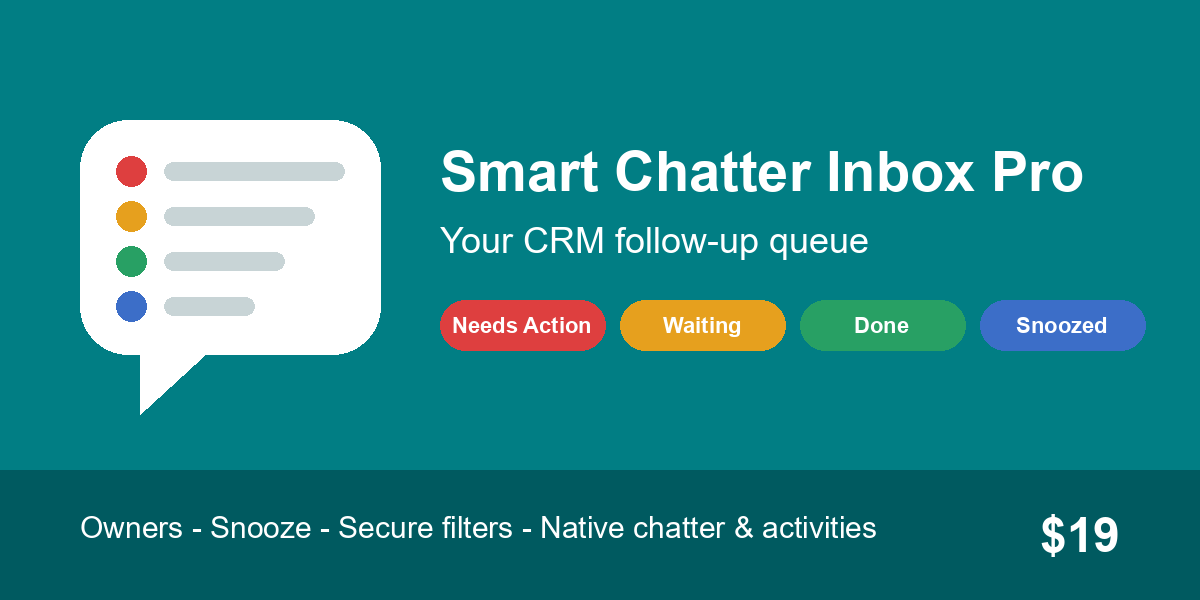
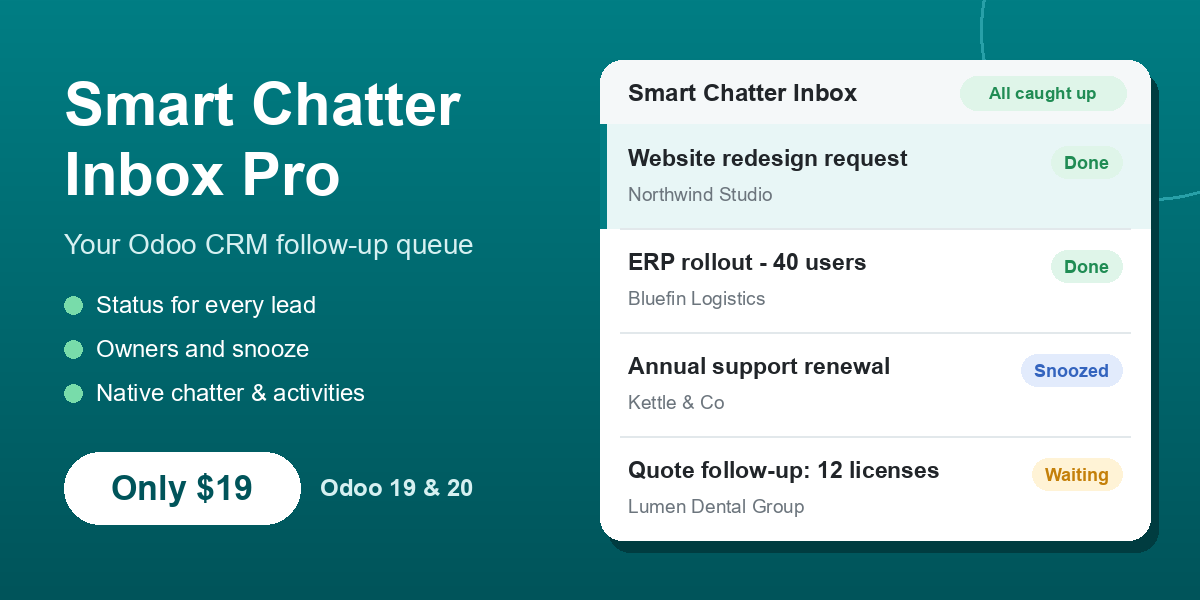
Add animated store page: GIF demos, animated thumbnail, landing layout
- Rebuild static/description/index.html (19.0 and 20.0) as a long landing
  page: hero, ideal-for, live GIF demos, 3-step setup, features, numbers,
  security, comparison table, screenshots, FAQ and support band.
- Add per-version GIF demos (triage, snooze, filters, chatter, mobile)
  recorded from real databases, and an animated banner.gif thumbnail.
- tools/record_gifs.py and tools/make_thumbnail.py generate them;
  make_images.py now only draws the icon.
- seed_demo.py re-adds the inbox group to demo users after a reinstall.

diff --git a/sd_smart_chatter_inbox/static/description/index.html b/sd_smart_chatter_inbox/static/description/index.html
@@ -1,91 +1,281 @@
-<section class="oe_container" style="padding: 32px 16px; font-family: Arial, Helvetica, sans-serif;">
-    <div style="max-width: 1100px; margin: 0 auto; text-align: center;">
-        <h1 style="color: #017e84; font-size: 36px; margin-bottom: 8px;">Smart Chatter Inbox Pro</h1>
-        <h2 style="color: #333; font-size: 20px; font-weight: normal; margin-top: 0;">
-            Keep every Odoo CRM conversation organized, assigned and actionable.
-        </h2>
-        <p style="font-size: 16px; color: #555; max-width: 760px; margin: 16px auto;">
-            Your sales team gets one queue of leads and opportunities that need a reply. Each one has a status
-            (<b>Needs Action</b>, <b>Waiting</b>, <b>Done</b> or <b>Snoozed</b>) and a follow-up owner.
-            Replies still happen in Odoo's own chatter, so nothing about your email setup changes.
+<!-- Store page for apps.odoo.com: inline styles + Bootstrap grid only (scripts and <style> are stripped). -->
+
+<!-- ============ HERO ============ -->
+<section class="oe_container" style="padding: 0; font-family: Arial, Helvetica, sans-serif;">
+    <div style="background: linear-gradient(160deg, #017e84 0%, #00545a 100%); border-radius: 18px; padding: 48px 24px 0; text-align: center; color: #fff; overflow: hidden;">
+        <p style="display: inline-block; background: rgba(255,255,255,.14); border: 1px solid rgba(255,255,255,.3); border-radius: 20px; padding: 5px 16px; font-size: 13px; letter-spacing: .08em; margin: 0 0 18px;">
+            ODOO CRM APP &nbsp;·&nbsp; ODOO 19 &amp; 20 &nbsp;·&nbsp; COMMUNITY &amp; ENTERPRISE
         </p>
-        <p style="display: inline-block; background: #017e84; color: #fff; font-size: 18px; font-weight: bold;
-                  padding: 10px 24px; border-radius: 24px;">
-            Only $19, one-time purchase
+        <h1 style="color: #fff; font-size: 44px; line-height: 1.15; font-weight: 800; margin: 0 auto 14px; max-width: 860px;">
+            Never lose a CRM follow-up again.
+        </h1>
+        <p style="color: #d6f0f1; font-size: 20px; line-height: 1.5; max-width: 760px; margin: 0 auto 26px;">
+            <b style="color: #fff;">Smart Chatter Inbox Pro</b> turns your leads and opportunities into one shared queue:
+            <b style="color: #fff;">Needs Action</b>, <b style="color: #fff;">Waiting</b>, <b style="color: #fff;">Done</b> and
+            <b style="color: #fff;">Snoozed</b>, each with a clear owner. Replies stay in Odoo's own chatter.
         </p>
-    </div>
-</section>
-
-<section class="oe_container" style="padding: 16px;">
-    <div style="max-width: 1100px; margin: 0 auto;">
-        <img src="screenshot_inbox.png" alt="Smart Chatter Inbox: filters, queue and lead details"
-             style="width: 100%; border: 1px solid #ddd; border-radius: 8px; box-shadow: 0 4px 16px rgba(0,0,0,.08);"/>
-    </div>
-</section>
-
-<section class="oe_container" style="padding: 32px 16px; font-family: Arial, Helvetica, sans-serif;">
-    <div style="max-width: 1100px; margin: 0 auto;">
-        <h2 style="color: #017e84; text-align: center;">What you get</h2>
-        <table style="width: 100%; border-collapse: separate; border-spacing: 12px;">
-            <tr>
-                <td style="vertical-align: top; width: 33%; background: #f6fafa; border-radius: 8px; padding: 16px;">
-                    <h3 style="margin-top: 0;">Follow-up statuses</h3>
-                    <p>Needs Action, Waiting, Done and Snoozed, with quick filters including <b>My Queue</b> and <b>All Visible</b>.</p>
-                </td>
-                <td style="vertical-align: top; width: 33%; background: #f6fafa; border-radius: 8px; padding: 16px;">
-                    <h3 style="margin-top: 0;">Clear ownership</h3>
-                    <p>Give each lead a follow-up owner. The salesperson stays the same, and the lead is never shared with anyone new.</p>
-                </td>
-                <td style="vertical-align: top; width: 33%; background: #f6fafa; border-radius: 8px; padding: 16px;">
-                    <h3 style="margin-top: 0;">Snooze</h3>
-                    <p>Hide a lead until a date and time. It comes back to Needs Action by itself, with no scheduled job to manage.</p>
-                </td>
-            </tr>
-            <tr>
-                <td style="vertical-align: top; background: #f6fafa; border-radius: 8px; padding: 16px;">
-                    <h3 style="margin-top: 0;">Native chatter and activities</h3>
-                    <p><b>Open Chatter</b> opens the lead. <b>Schedule Follow-up</b> opens Odoo's own activity dialog.</p>
-                </td>
-                <td style="vertical-align: top; background: #f6fafa; border-radius: 8px; padding: 16px;">
-                    <h3 style="margin-top: 0;">Search and filters</h3>
-                    <p>Search by lead title or customer. Filter by owner, sales team, company and lead or opportunity.</p>
-                </td>
-                <td style="vertical-align: top; background: #f6fafa; border-radius: 8px; padding: 16px;">
-                    <h3 style="margin-top: 0;">Respects your access rules</h3>
-                    <p>Users only see leads they can already open. Multi-company rules and Odoo's record rules apply everywhere.</p>
-                </td>
-            </tr>
-        </table>
-    </div>
-</section>
-
-<section class="oe_container" style="padding: 16px; font-family: Arial, Helvetica, sans-serif;">
-    <div style="max-width: 1100px; margin: 0 auto;">
-        <h2 style="color: #017e84; text-align: center;">Snooze to an exact date and time</h2>
-        <img src="screenshot_snooze.png" alt="Snooze editor with time zone"
-             style="width: 100%; border: 1px solid #ddd; border-radius: 8px;"/>
-        <h2 style="color: #017e84; text-align: center; margin-top: 40px;">Reply in Odoo's own chatter</h2>
-        <img src="screenshot_chatter.png" alt="Open Chatter on the CRM lead"
-             style="width: 100%; border: 1px solid #ddd; border-radius: 8px;"/>
-        <h2 style="color: #017e84; text-align: center; margin-top: 40px;">Works on phones too</h2>
-        <div style="text-align: center;">
-            <img src="screenshot_mobile.png" alt="Mobile layout" style="width: 320px; max-width: 100%; border: 1px solid #ddd; border-radius: 16px;"/>
+        <p style="margin: 0 0 30px;">
+            <span style="display: inline-block; background: #fff; color: #00545a; font-size: 22px; font-weight: 800; padding: 12px 30px; border-radius: 30px; margin: 4px;">Only $19 &middot; one-time</span>
+            <span style="display: inline-block; background: rgba(255,255,255,.12); border: 1px solid rgba(255,255,255,.35); color: #fff; font-size: 16px; padding: 13px 22px; border-radius: 30px; margin: 4px;">Free setup help by email</span>
+        </p>
+        <div style="max-width: 1000px; margin: 0 auto; background: #fff; border-radius: 14px 14px 0 0; padding: 10px 10px 0; box-shadow: 0 -6px 30px rgba(0,0,0,.18);">
+            <p style="text-align: left; margin: 0 0 8px 6px; line-height: 1;">
+                <span style="display: inline-block; width: 11px; height: 11px; border-radius: 50%; background: #ff5f57; margin-right: 5px;"></span>
+                <span style="display: inline-block; width: 11px; height: 11px; border-radius: 50%; background: #febc2e; margin-right: 5px;"></span>
+                <span style="display: inline-block; width: 11px; height: 11px; border-radius: 50%; background: #28c840;"></span>
+            </p>
+            <img src="gif_filters.gif" alt="Animated demo: search and filter the follow-up queue" style="width: 100%; display: block; border-radius: 6px 6px 0 0;"/>
         </div>
     </div>
 </section>
 
-<section class="oe_container" style="padding: 32px 16px; font-family: Arial, Helvetica, sans-serif;">
-    <div style="max-width: 900px; margin: 0 auto;">
-        <h2 style="color: #017e84;">Good to know</h2>
-        <ul style="font-size: 15px; line-height: 1.7;">
-            <li>Covers CRM leads and opportunities. Requires the CRM app.</li>
-            <li>Statuses are your team's own workflow. They do not detect whether an email was read or answered.</li>
-            <li>No message preview in this version. Click <b>Open Chatter</b> to read the conversation.</li>
-            <li>Does not send email and does not connect to Gmail, Outlook or IMAP. It works with your existing Odoo mail setup.</li>
-            <li>Runs on Odoo.sh and self-hosted servers, Community or Enterprise. Odoo Online (SaaS) cannot install custom apps.</li>
-        </ul>
-        <h2 style="color: #017e84;">Support</h2>
-        <p style="font-size: 15px;">Questions or need help installing? Email
-            <a href="mailto:rahul@softdeviser.com">rahul@softdeviser.com</a>. We usually answer within one business day.</p>
+<!-- ============ TRUST STRIP ============ -->
+<section class="oe_container" style="padding: 22px 12px; font-family: Arial, Helvetica, sans-serif;">
+    <p style="text-align: center; color: #555; font-size: 15px; margin: 0;">
+        <span style="display: inline-block; margin: 6px 14px;">&#10003; Odoo 19 &amp; 20</span>
+        <span style="display: inline-block; margin: 6px 14px;">&#10003; Community &amp; Enterprise</span>
+        <span style="display: inline-block; margin: 6px 14px;">&#10003; Odoo.sh &amp; self-hosted</span>
+        <span style="display: inline-block; margin: 6px 14px;">&#10003; Multi-company</span>
+        <span style="display: inline-block; margin: 6px 14px;">&#10003; Phone &amp; tablet layout</span>
+        <span style="display: inline-block; margin: 6px 14px;">&#10003; No external services</span>
+    </p>
+</section>
+
+<!-- ============ IDEAL FOR ============ -->
+<section class="oe_container" style="padding: 24px 12px 8px; font-family: Arial, Helvetica, sans-serif;">
+    <h2 style="text-align: center; color: #1d2b2c; font-size: 30px; font-weight: 800; margin: 0 0 6px;">Ideal for</h2>
+    <p style="text-align: center; color: #666; font-size: 16px; margin: 0 0 24px;">Any team that answers customers from Odoo CRM.</p>
+    <div class="row" style="margin: 0;">
+        <div class="col-md-4" style="padding: 8px;">
+            <div style="height: 100%; border: 1px solid #e3ecec; border-radius: 14px; padding: 22px; background: #fff;">
+                <p style="font-size: 30px; margin: 0 0 8px;">&#128101;</p>
+                <h3 style="font-size: 19px; color: #017e84; margin: 0 0 8px;">Sales teams</h3>
+                <p style="color: #555; font-size: 15px; line-height: 1.55; margin: 0;">Everyone sees which leads are waiting on <b>us</b> and which are waiting on the <b>customer</b>. No more "did anyone reply to this?"</p>
+            </div>
+        </div>
+        <div class="col-md-4" style="padding: 8px;">
+            <div style="height: 100%; border: 1px solid #e3ecec; border-radius: 14px; padding: 22px; background: #fff;">
+                <p style="font-size: 30px; margin: 0 0 8px;">&#128202;</p>
+                <h3 style="font-size: 19px; color: #017e84; margin: 0 0 8px;">Sales managers</h3>
+                <p style="color: #555; font-size: 15px; line-height: 1.55; margin: 0;">Filter by owner, team or company to spot stuck conversations in seconds, then hand them to the right person.</p>
+            </div>
+        </div>
+        <div class="col-md-4" style="padding: 8px;">
+            <div style="height: 100%; border: 1px solid #e3ecec; border-radius: 14px; padding: 22px; background: #fff;">
+                <p style="font-size: 30px; margin: 0 0 8px;">&#127970;</p>
+                <h3 style="font-size: 19px; color: #017e84; margin: 0 0 8px;">Small businesses</h3>
+                <p style="color: #555; font-size: 15px; line-height: 1.55; margin: 0;">A shared follow-up inbox without a help-desk subscription. Install, tick one setting, done. $19, once.</p>
+            </div>
+        </div>
+    </div>
+</section>
+
+<!-- ============ SEE IT HAPPEN ============ -->
+<section class="oe_container" style="padding: 40px 12px 8px; font-family: Arial, Helvetica, sans-serif;">
+    <p style="text-align: center; color: #017e84; font-weight: 700; letter-spacing: .1em; font-size: 13px; margin: 0;">LIVE DEMOS</p>
+    <h2 style="text-align: center; color: #1d2b2c; font-size: 30px; font-weight: 800; margin: 4px 0 6px;">See it actually happen</h2>
+    <p style="text-align: center; color: #666; font-size: 16px; margin: 0 0 28px;">Recorded in a real Odoo database. No mock-ups.</p>
+
+    <div style="border: 1px solid #e3ecec; border-radius: 16px; padding: 22px; margin-bottom: 26px; background: #f7fbfb;">
+        <p style="margin: 0 0 4px;"><span style="display: inline-block; background: #017e84; color: #fff; font-weight: 700; font-size: 13px; padding: 3px 12px; border-radius: 12px;">1 &middot; TRIAGE</span></p>
+        <h3 style="font-size: 22px; color: #1d2b2c; margin: 10px 0 6px;">Set a status and an owner in two clicks</h3>
+        <p style="color: #555; font-size: 15px; margin: 0 0 16px;">Select a lead, choose <b>Waiting</b>, pick a team-mate as follow-up owner and save. It moves out of Needs Action straight away.</p>
+        <img src="gif_triage.gif" alt="Triage demo" style="width: 100%; border-radius: 10px; border: 1px solid #dfe7e8; box-shadow: 0 6px 20px rgba(0,0,0,.08);"/>
+    </div>
+
+    <div style="border: 1px solid #e3ecec; border-radius: 16px; padding: 22px; margin-bottom: 26px; background: #f7fbfb;">
+        <p style="margin: 0 0 4px;"><span style="display: inline-block; background: #3464be; color: #fff; font-weight: 700; font-size: 13px; padding: 3px 12px; border-radius: 12px;">2 &middot; SNOOZE</span></p>
+        <h3 style="font-size: 22px; color: #1d2b2c; margin: 10px 0 6px;">Hide a lead until the day you need it</h3>
+        <p style="color: #555; font-size: 15px; margin: 0 0 16px;">Pick a date and time in your own time zone. When it is due, the lead returns to Needs Action by itself. No scheduled job to configure.</p>
+        <img src="gif_snooze.gif" alt="Snooze demo" style="width: 100%; border-radius: 10px; border: 1px solid #dfe7e8; box-shadow: 0 6px 20px rgba(0,0,0,.08);"/>
+    </div>
+
+    <div style="border: 1px solid #e3ecec; border-radius: 16px; padding: 22px; margin-bottom: 26px; background: #f7fbfb;">
+        <p style="margin: 0 0 4px;"><span style="display: inline-block; background: #208c54; color: #fff; font-weight: 700; font-size: 13px; padding: 3px 12px; border-radius: 12px;">3 &middot; ACT</span></p>
+        <h3 style="font-size: 22px; color: #1d2b2c; margin: 10px 0 6px;">Schedule a follow-up or reply in the chatter</h3>
+        <p style="color: #555; font-size: 15px; margin: 0 0 16px;"><b>Schedule Follow-up</b> opens Odoo's own activity dialog. <b>Open Chatter</b> takes you to the lead, where you reply exactly as you do today.</p>
+        <img src="gif_chatter.gif" alt="Schedule activity and open chatter demo" style="width: 100%; border-radius: 10px; border: 1px solid #dfe7e8; box-shadow: 0 6px 20px rgba(0,0,0,.08);"/>
+    </div>
+
+    <div class="row" style="margin: 0; border: 1px solid #e3ecec; border-radius: 16px; padding: 22px 10px; background: #f7fbfb; align-items: center;">
+        <div class="col-md-6" style="padding: 12px;">
+            <p style="margin: 0 0 4px;"><span style="display: inline-block; background: #de3f3f; color: #fff; font-weight: 700; font-size: 13px; padding: 3px 12px; border-radius: 12px;">4 &middot; ON THE GO</span></p>
+            <h3 style="font-size: 22px; color: #1d2b2c; margin: 10px 0 6px;">Works on phones and tablets</h3>
+            <p style="color: #555; font-size: 15px; line-height: 1.6; margin: 0;">Three panes on desktop, a filter drawer on tablets, and a simple list-then-details flow on phones. Clear your queue from anywhere.</p>
+        </div>
+        <div class="col-md-6" style="padding: 12px; text-align: center;">
+            <img src="gif_mobile.gif" alt="Phone layout demo" style="width: 300px; max-width: 100%; border: 8px solid #1d2b2c; border-radius: 28px; box-shadow: 0 10px 30px rgba(0,0,0,.18);"/>
+        </div>
+    </div>
+</section>
+
+<!-- ============ HOW IT WORKS ============ -->
+<section class="oe_container" style="padding: 44px 12px 8px; font-family: Arial, Helvetica, sans-serif;">
+    <h2 style="text-align: center; color: #1d2b2c; font-size: 30px; font-weight: 800; margin: 0 0 24px;">Up and running in 3 steps</h2>
+    <div class="row" style="margin: 0;">
+        <div class="col-md-4" style="padding: 8px;">
+            <div style="height: 100%; border-radius: 14px; padding: 22px; background: #017e84; color: #fff;">
+                <p style="font-size: 38px; font-weight: 800; margin: 0; color: #9fe3d0;">01</p>
+                <h3 style="color: #fff; font-size: 19px; margin: 6px 0;">Install</h3>
+                <p style="color: #d6f0f1; font-size: 15px; line-height: 1.55; margin: 0;">Install the app next to CRM. The admin user gets access automatically; add other users from <b>Settings &rsaquo; Users</b>.</p>
+            </div>
+        </div>
+        <div class="col-md-4" style="padding: 8px;">
+            <div style="height: 100%; border-radius: 14px; padding: 22px; background: #016a70; color: #fff;">
+                <p style="font-size: 38px; font-weight: 800; margin: 0; color: #9fe3d0;">02</p>
+                <h3 style="color: #fff; font-size: 19px; margin: 6px 0;">Fill the queue</h3>
+                <p style="color: #d6f0f1; font-size: 15px; line-height: 1.55; margin: 0;">Turn on <b>Include untriaged leads</b> in CRM Settings, or set a status on the <b>Smart Inbox</b> tab of any lead.</p>
+            </div>
+        </div>
+        <div class="col-md-4" style="padding: 8px;">
+            <div style="height: 100%; border-radius: 14px; padding: 22px; background: #00545a; color: #fff;">
+                <p style="font-size: 38px; font-weight: 800; margin: 0; color: #9fe3d0;">03</p>
+                <h3 style="color: #fff; font-size: 19px; margin: 6px 0;">Work the queue</h3>
+                <p style="color: #d6f0f1; font-size: 15px; line-height: 1.55; margin: 0;">Open <b>CRM &rsaquo; Sales &rsaquo; Smart Chatter Inbox</b> and work from Needs Action down to zero.</p>
+            </div>
+        </div>
+    </div>
+</section>
+
+<!-- ============ FEATURES ============ -->
+<section class="oe_container" style="padding: 44px 12px 8px; font-family: Arial, Helvetica, sans-serif;">
+    <h2 style="text-align: center; color: #1d2b2c; font-size: 30px; font-weight: 800; margin: 0 0 6px;">Everything a follow-up queue needs</h2>
+    <p style="text-align: center; color: #666; font-size: 16px; margin: 0 0 24px;">Nothing it doesn't.</p>
+    <div class="row" style="margin: 0;">
+        <div class="col-md-4 col-sm-6" style="padding: 8px;"><div style="height: 100%; border: 1px solid #e3ecec; border-radius: 12px; padding: 18px;">
+            <h4 style="font-size: 17px; color: #1d2b2c; margin: 0 0 6px;"><span style="color: #de3f3f;">&#9679;</span> Four clear statuses</h4>
+            <p style="color: #555; font-size: 14px; line-height: 1.55; margin: 0;">Needs Action, Waiting, Done and Snoozed, plus quick views for <b>My Queue</b> and <b>All Visible</b>.</p></div></div>
+        <div class="col-md-4 col-sm-6" style="padding: 8px;"><div style="height: 100%; border: 1px solid #e3ecec; border-radius: 12px; padding: 18px;">
+            <h4 style="font-size: 17px; color: #1d2b2c; margin: 0 0 6px;"><span style="color: #017e84;">&#9679;</span> Follow-up owner</h4>
+            <p style="color: #555; font-size: 14px; line-height: 1.55; margin: 0;">Hand a lead to a team-mate without changing the salesperson. Only people who can already see the lead are offered.</p></div></div>
+        <div class="col-md-4 col-sm-6" style="padding: 8px;"><div style="height: 100%; border: 1px solid #e3ecec; border-radius: 12px; padding: 18px;">
+            <h4 style="font-size: 17px; color: #1d2b2c; margin: 0 0 6px;"><span style="color: #3464be;">&#9679;</span> Exact-time snooze</h4>
+            <p style="color: #555; font-size: 14px; line-height: 1.55; margin: 0;">Snooze to a date and time in the user's time zone. Leads come back on their own, with no cron job.</p></div></div>
+        <div class="col-md-4 col-sm-6" style="padding: 8px;"><div style="height: 100%; border: 1px solid #e3ecec; border-radius: 12px; padding: 18px;">
+            <h4 style="font-size: 17px; color: #1d2b2c; margin: 0 0 6px;"><span style="color: #c4800a;">&#9679;</span> Lead context at a glance</h4>
+            <p style="color: #555; font-size: 14px; line-height: 1.55; margin: 0;">Customer, email, phone, stage, salesperson, team, next activity and who last updated the status.</p></div></div>
+        <div class="col-md-4 col-sm-6" style="padding: 8px;"><div style="height: 100%; border: 1px solid #e3ecec; border-radius: 12px; padding: 18px;">
+            <h4 style="font-size: 17px; color: #1d2b2c; margin: 0 0 6px;"><span style="color: #208c54;">&#9679;</span> Native activities</h4>
+            <p style="color: #555; font-size: 14px; line-height: 1.55; margin: 0;">Schedule Follow-up uses Odoo's standard activity dialog, so reminders, calendars and reports keep working.</p></div></div>
+        <div class="col-md-4 col-sm-6" style="padding: 8px;"><div style="height: 100%; border: 1px solid #e3ecec; border-radius: 12px; padding: 18px;">
+            <h4 style="font-size: 17px; color: #1d2b2c; margin: 0 0 6px;"><span style="color: #7a4fc4;">&#9679;</span> Status on the lead form</h4>
+            <p style="color: #555; font-size: 14px; line-height: 1.55; margin: 0;">A <b>Smart Inbox</b> tab on every lead lets you triage it without leaving the form.</p></div></div>
+        <div class="col-md-4 col-sm-6" style="padding: 8px;"><div style="height: 100%; border: 1px solid #e3ecec; border-radius: 12px; padding: 18px;">
+            <h4 style="font-size: 17px; color: #1d2b2c; margin: 0 0 6px;"><span style="color: #de3f3f;">&#9679;</span> Keyboard friendly</h4>
+            <p style="color: #555; font-size: 14px; line-height: 1.55; margin: 0;">Arrow keys move through the list, focus is always visible, and screen readers get proper labels.</p></div></div>
+        <div class="col-md-4 col-sm-6" style="padding: 8px;"><div style="height: 100%; border: 1px solid #e3ecec; border-radius: 12px; padding: 18px;">
+            <h4 style="font-size: 17px; color: #1d2b2c; margin: 0 0 6px;"><span style="color: #017e84;">&#9679;</span> Multi-company aware</h4>
+            <p style="color: #555; font-size: 14px; line-height: 1.55; margin: 0;">Only companies enabled in the company switcher are shown, and the company filter respects them.</p></div></div>
+        <div class="col-md-4 col-sm-6" style="padding: 8px;"><div style="height: 100%; border: 1px solid #e3ecec; border-radius: 12px; padding: 18px;">
+            <h4 style="font-size: 17px; color: #1d2b2c; margin: 0 0 6px;"><span style="color: #3464be;">&#9679;</span> Clean install &amp; uninstall</h4>
+            <p style="color: #555; font-size: 14px; line-height: 1.55; margin: 0;">No changes to existing leads on install. Uninstalling removes the app's fields and leaves your CRM data untouched.</p></div></div>
+    </div>
+</section>
+
+<!-- ============ NUMBERS ============ -->
+<section class="oe_container" style="padding: 44px 12px 8px; font-family: Arial, Helvetica, sans-serif;">
+    <div style="background: #1d2b2c; border-radius: 18px; padding: 34px 18px; color: #fff;">
+        <h2 style="text-align: center; color: #fff; font-size: 28px; font-weight: 800; margin: 0 0 6px;">Small price. Serious engineering.</h2>
+        <p style="text-align: center; color: #a9c4c6; font-size: 15px; margin: 0 0 26px;">Measured on a test database with 10,000 opportunities and 100,000 chatter messages.</p>
+        <div class="row" style="margin: 0; text-align: center;">
+            <div class="col-6 col-md" style="padding: 10px;"><p style="font-size: 36px; font-weight: 800; color: #9fe3d0; margin: 0;">$19</p><p style="color: #cfe0e1; font-size: 14px; margin: 0;">one-time price</p></div>
+            <div class="col-6 col-md" style="padding: 10px;"><p style="font-size: 36px; font-weight: 800; color: #9fe3d0; margin: 0;">&lt;100 ms</p><p style="color: #cfe0e1; font-size: 14px; margin: 0;">server time per page (p95)</p></div>
+            <div class="col-6 col-md" style="padding: 10px;"><p style="font-size: 36px; font-weight: 800; color: #9fe3d0; margin: 0;">&lt;10</p><p style="color: #cfe0e1; font-size: 14px; margin: 0;">SQL queries per page, any size</p></div>
+            <div class="col-6 col-md" style="padding: 10px;"><p style="font-size: 36px; font-weight: 800; color: #9fe3d0; margin: 0;">40</p><p style="color: #cfe0e1; font-size: 14px; margin: 0;">automated tests</p></div>
+            <div class="col-12 col-md" style="padding: 10px;"><p style="font-size: 36px; font-weight: 800; color: #9fe3d0; margin: 0;">0</p><p style="color: #cfe0e1; font-size: 14px; margin: 0;">sudo calls</p></div>
+        </div>
+    </div>
+</section>
+
+<!-- ============ SECURITY ============ -->
+<section class="oe_container" style="padding: 44px 12px 8px; font-family: Arial, Helvetica, sans-serif;">
+    <div class="row" style="margin: 0; align-items: center;">
+        <div class="col-md-6" style="padding: 12px;">
+            <p style="color: #017e84; font-weight: 700; letter-spacing: .1em; font-size: 13px; margin: 0;">SECURITY &amp; GOVERNANCE</p>
+            <h2 style="color: #1d2b2c; font-size: 28px; font-weight: 800; margin: 4px 0 12px;">It never shows more than Odoo already allows</h2>
+            <p style="color: #555; font-size: 15px; line-height: 1.6; margin: 0;">Every list, count, filter and update runs as the logged-in user with your normal access rights and record rules. The app has no superuser shortcuts, so a salesperson who can only see their own leads sees only their own leads here too.</p>
+        </div>
+        <div class="col-md-6" style="padding: 12px;">
+            <ul style="list-style: none; padding: 0; margin: 0; font-size: 15px; color: #333; line-height: 1.5;">
+                <li style="background: #f7fbfb; border: 1px solid #e3ecec; border-radius: 10px; padding: 11px 14px; margin-bottom: 8px;">&#128274; Respects record rules, multi-company and team visibility</li>
+                <li style="background: #f7fbfb; border: 1px solid #e3ecec; border-radius: 10px; padding: 11px 14px; margin-bottom: 8px;">&#128100; Its own user group: you choose who gets the inbox</li>
+                <li style="background: #f7fbfb; border: 1px solid #e3ecec; border-radius: 10px; padding: 11px 14px; margin-bottom: 8px;">&#9989; Server-side checks on every action, not just hidden buttons</li>
+                <li style="background: #f7fbfb; border: 1px solid #e3ecec; border-radius: 10px; padding: 11px 14px; margin-bottom: 8px;">&#129309; Assigning an owner never shares a lead with anyone new</li>
+                <li style="background: #f7fbfb; border: 1px solid #e3ecec; border-radius: 10px; padding: 11px 14px;">&#127760; No data leaves your server: no tracking, no external calls</li>
+            </ul>
+        </div>
+    </div>
+</section>
+
+<!-- ============ COMPARISON ============ -->
+<section class="oe_container" style="padding: 44px 12px 8px; font-family: Arial, Helvetica, sans-serif;">
+    <h2 style="text-align: center; color: #1d2b2c; font-size: 28px; font-weight: 800; margin: 0 0 22px;">Standard CRM vs. with Smart Chatter Inbox</h2>
+    <div style="overflow-x: auto;">
+        <table style="width: 100%; min-width: 560px; border-collapse: collapse; font-size: 15px;">
+            <tr style="background: #017e84; color: #fff;">
+                <th style="padding: 12px 14px; text-align: left; border-radius: 10px 0 0 0;">Question your team asks</th>
+                <th style="padding: 12px 14px; text-align: center;">Standard Odoo CRM</th>
+                <th style="padding: 12px 14px; text-align: center; border-radius: 0 10px 0 0;">With this app</th>
+            </tr>
+            <tr style="border-bottom: 1px solid #e3ecec;"><td style="padding: 11px 14px;">Which conversations are waiting on us?</td><td style="padding: 11px 14px; text-align: center; color: #999;">Open each lead</td><td style="padding: 11px 14px; text-align: center; color: #208c54; font-weight: 700;">&#10003; Needs Action list</td></tr>
+            <tr style="border-bottom: 1px solid #e3ecec; background: #f7fbfb;"><td style="padding: 11px 14px;">Which ones are waiting on the customer?</td><td style="padding: 11px 14px; text-align: center; color: #999;">Not tracked</td><td style="padding: 11px 14px; text-align: center; color: #208c54; font-weight: 700;">&#10003; Waiting list</td></tr>
+            <tr style="border-bottom: 1px solid #e3ecec;"><td style="padding: 11px 14px;">Who is following this up?</td><td style="padding: 11px 14px; text-align: center; color: #999;">Salesperson only</td><td style="padding: 11px 14px; text-align: center; color: #208c54; font-weight: 700;">&#10003; Separate follow-up owner</td></tr>
+            <tr style="border-bottom: 1px solid #e3ecec; background: #f7fbfb;"><td style="padding: 11px 14px;">Hide it until next Tuesday at 10:00?</td><td style="padding: 11px 14px; text-align: center; color: #999;">&#10007;</td><td style="padding: 11px 14px; text-align: center; color: #208c54; font-weight: 700;">&#10003; Snooze</td></tr>
+            <tr style="border-bottom: 1px solid #e3ecec;"><td style="padding: 11px 14px;">One screen for the whole team's queue?</td><td style="padding: 11px 14px; text-align: center; color: #999;">&#10007;</td><td style="padding: 11px 14px; text-align: center; color: #208c54; font-weight: 700;">&#10003; Shared inbox with filters</td></tr>
+            <tr><td style="padding: 11px 14px;">Change how we email customers?</td><td style="padding: 11px 14px; text-align: center; color: #999;">&mdash;</td><td style="padding: 11px 14px; text-align: center; color: #208c54; font-weight: 700;">No change needed</td></tr>
+        </table>
+    </div>
+</section>
+
+<!-- ============ SCREENSHOTS ============ -->
+<section class="oe_container" style="padding: 44px 12px 8px; font-family: Arial, Helvetica, sans-serif;">
+    <h2 style="text-align: center; color: #1d2b2c; font-size: 28px; font-weight: 800; margin: 0 0 22px;">Screenshots</h2>
+    <p style="font-weight: 700; color: #1d2b2c; font-size: 16px; margin: 0 0 8px;">Filters, queue and lead details in one screen</p>
+    <img src="screenshot_inbox.png" alt="Inbox with filters, queue and lead details" style="width: 100%; border: 1px solid #dfe7e8; border-radius: 10px; margin-bottom: 26px;"/>
+    <p style="font-weight: 700; color: #1d2b2c; font-size: 16px; margin: 0 0 8px;">Snooze editor with the user's time zone</p>
+    <img src="screenshot_snooze.png" alt="Snooze editor" style="width: 100%; border: 1px solid #dfe7e8; border-radius: 10px; margin-bottom: 26px;"/>
+    <p style="font-weight: 700; color: #1d2b2c; font-size: 16px; margin: 0 0 8px;">Open Chatter goes straight to the lead</p>
+    <img src="screenshot_chatter.png" alt="Lead chatter" style="width: 100%; border: 1px solid #dfe7e8; border-radius: 10px;"/>
+</section>
+
+<!-- ============ FAQ ============ -->
+<section class="oe_container" style="padding: 44px 12px 8px; font-family: Arial, Helvetica, sans-serif;">
+    <h2 style="text-align: center; color: #1d2b2c; font-size: 28px; font-weight: 800; margin: 0 0 22px;">FAQ</h2>
+    <div style="max-width: 880px; margin: 0 auto;">
+        <div style="border: 1px solid #e3ecec; border-radius: 12px; padding: 16px 18px; margin-bottom: 10px;">
+            <p style="font-weight: 700; color: #1d2b2c; font-size: 16px; margin: 0 0 6px;">Does it read or send emails?</p>
+            <p style="color: #555; font-size: 15px; line-height: 1.55; margin: 0;">No. It does not connect to Gmail, Outlook or IMAP and sends nothing. Your team replies in the lead's chatter exactly as before. The statuses are your team's own workflow; the app does not guess whether an email was answered.</p>
+        </div>
+        <div style="border: 1px solid #e3ecec; border-radius: 12px; padding: 16px 18px; margin-bottom: 10px;">
+            <p style="font-weight: 700; color: #1d2b2c; font-size: 16px; margin: 0 0 6px;">Why is my inbox empty after installing?</p>
+            <p style="color: #555; font-size: 15px; line-height: 1.55; margin: 0;">Installing changes none of your existing leads. Turn on <b>Include untriaged leads</b> in CRM Settings to show every open lead, or set a status on a lead's <b>Smart Inbox</b> tab.</p>
+        </div>
+        <div style="border: 1px solid #e3ecec; border-radius: 12px; padding: 16px 18px; margin-bottom: 10px;">
+            <p style="font-weight: 700; color: #1d2b2c; font-size: 16px; margin: 0 0 6px;">Who can use it?</p>
+            <p style="color: #555; font-size: 15px; line-height: 1.55; margin: 0;">Users in the <b>Smart Chatter Inbox / User</b> group. The admin user gets it on install. They still only see the leads their CRM access allows.</p>
+        </div>
+        <div style="border: 1px solid #e3ecec; border-radius: 12px; padding: 16px 18px; margin-bottom: 10px;">
+            <p style="font-weight: 700; color: #1d2b2c; font-size: 16px; margin: 0 0 6px;">Does it work on Odoo Online?</p>
+            <p style="color: #555; font-size: 15px; line-height: 1.55; margin: 0;">Odoo Online (SaaS) cannot install third-party apps. It works on Odoo.sh and on any self-hosted Odoo 19 or 20, Community or Enterprise.</p>
+        </div>
+        <div style="border: 1px solid #e3ecec; border-radius: 12px; padding: 16px 18px; margin-bottom: 10px;">
+            <p style="font-weight: 700; color: #1d2b2c; font-size: 16px; margin: 0 0 6px;">Will it slow down CRM?</p>
+            <p style="color: #555; font-size: 15px; line-height: 1.55; margin: 0;">No. Pages are capped at 100 rows and load in a fixed number of queries. On 10,000 leads every call stayed under 100 ms on the server. It never loads chatter messages for the list.</p>
+        </div>
+        <div style="border: 1px solid #e3ecec; border-radius: 12px; padding: 16px 18px;">
+            <p style="font-weight: 700; color: #1d2b2c; font-size: 16px; margin: 0 0 6px;">Is there a message preview?</p>
+            <p style="color: #555; font-size: 15px; line-height: 1.55; margin: 0;">Not in this version. Click <b>Open Chatter</b> to read the conversation on the lead.</p>
+        </div>
+    </div>
+</section>
+
+<!-- ============ SUPPORT CTA ============ -->
+<section class="oe_container" style="padding: 44px 12px 32px; font-family: Arial, Helvetica, sans-serif;">
+    <div style="background: linear-gradient(160deg, #017e84 0%, #00545a 100%); border-radius: 18px; padding: 38px 22px; text-align: center; color: #fff;">
+        <h2 style="color: #fff; font-size: 28px; font-weight: 800; margin: 0 0 10px;">Need a hand? Setup help is free.</h2>
+        <p style="color: #d6f0f1; font-size: 16px; line-height: 1.6; max-width: 680px; margin: 0 auto 22px;">Questions before buying, trouble installing, or an idea for the next version? Email us and we usually answer within one business day.</p>
+        <a href="mailto:rahul@softdeviser.com" style="display: inline-block; background: #fff; color: #00545a; font-weight: 800; font-size: 17px; padding: 13px 28px; border-radius: 30px; text-decoration: none; margin: 4px;">rahul@softdeviser.com</a>
+        <a href="https://softdeviser.com" target="_blank" style="display: inline-block; border: 1px solid rgba(255,255,255,.5); color: #fff; font-size: 16px; padding: 13px 24px; border-radius: 30px; text-decoration: none; margin: 4px;">softdeviser.com</a>
+        <p style="color: #a9d6d8; font-size: 13px; margin: 22px 0 0;">Smart Chatter Inbox Pro by Softdeviser &middot; Odoo Proprietary License v1.0</p>
     </div>
 </section>

diff --git a/sd_smart_chatter_inbox/__manifest__.py b/sd_smart_chatter_inbox/__manifest__.py
@@ -30,7 +30,7 @@
             "sd_smart_chatter_inbox/static/tests/tours/**/*.js",
         ],
     },
-    "images": ["static/description/banner.png"],
+    "images": ["static/description/banner.gif"],
     "installable": True,
     "application": False,
 }
